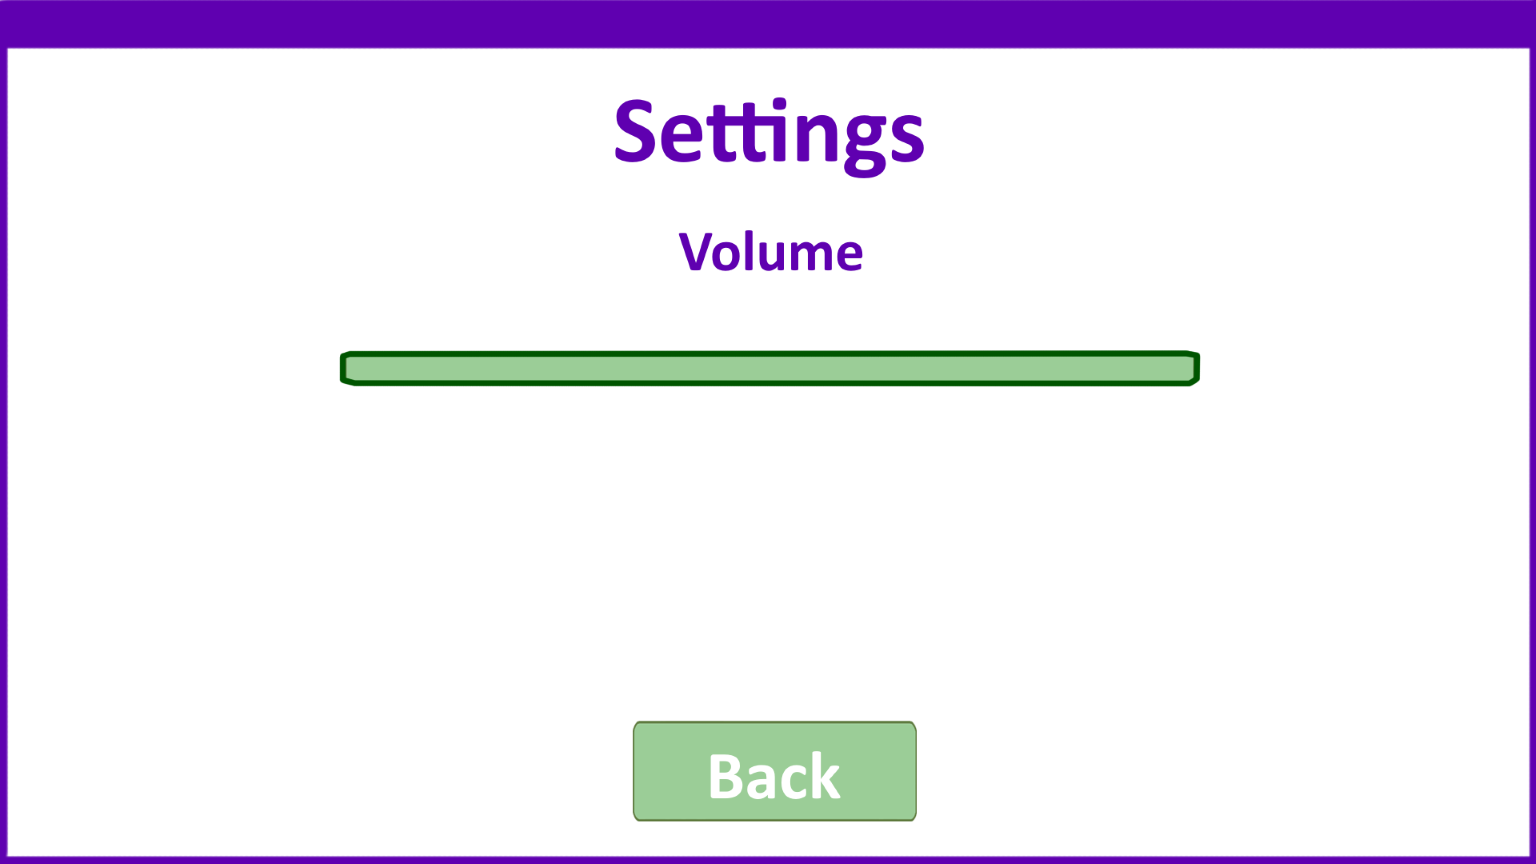
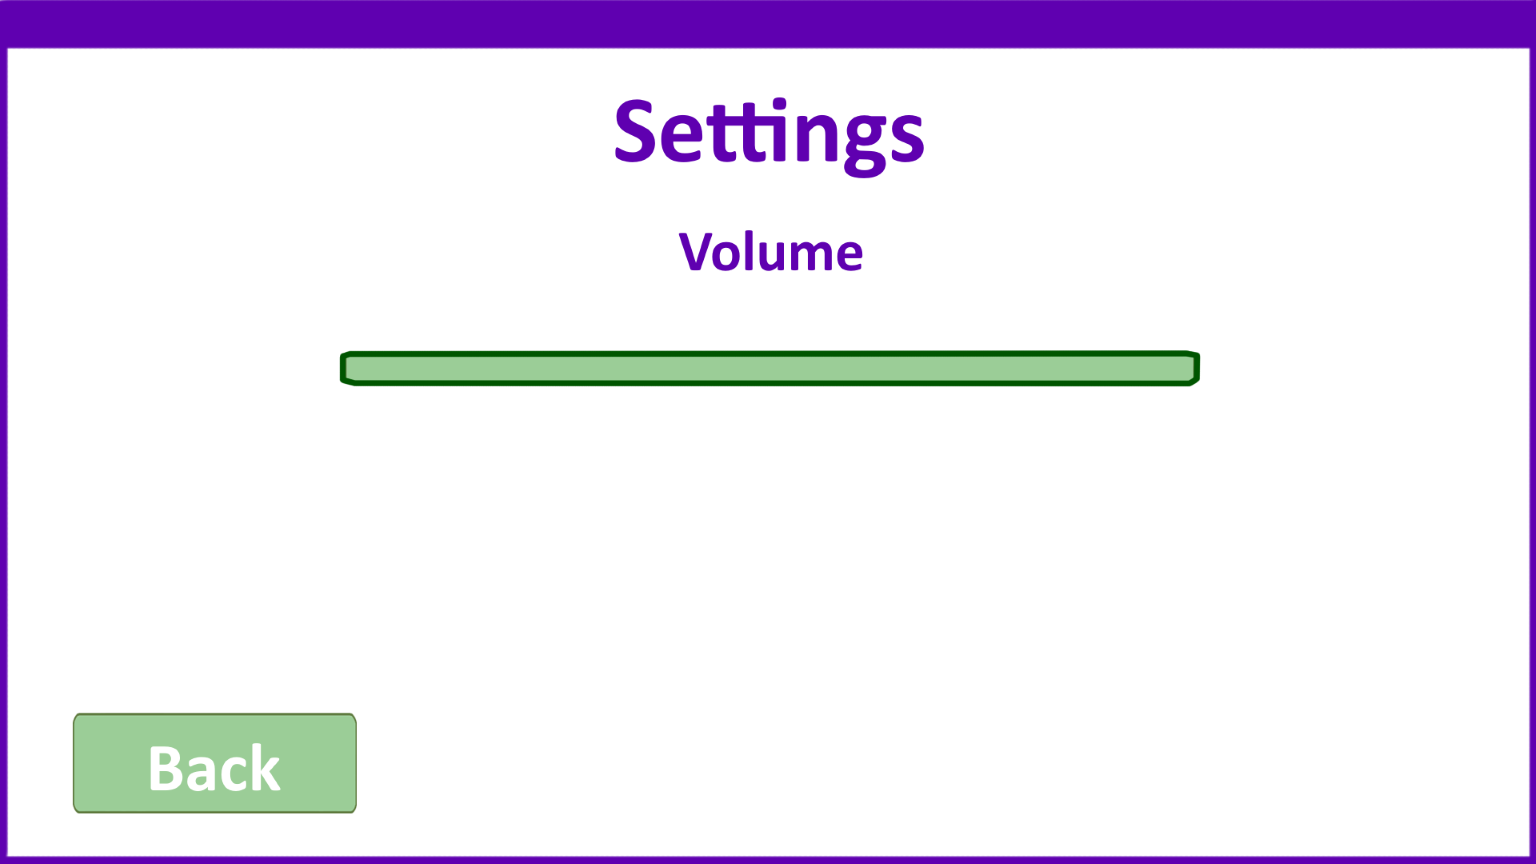
moved back button in settings menu

Changed region(s): [[0.4062, 0.8125, 0.625, 0.9688], [0.0312, 0.8125, 0.25, 0.9688]]

diff --git a/Settings.py b/Settings.py
@@ -8,7 +8,7 @@ class Settings:
         self.image = pygame.image.load('Settings.png')
         self.buttons = []
         # create all buttons
-        self.buttons.append(BackButton(635, 721, machine))
+        self.buttons.append(BackButton(75, 710, machine))
         self.buttons.append(Slider(0, 17, machine))
 
     def drawScene(self, surface):
